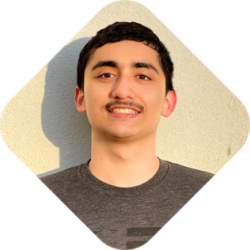
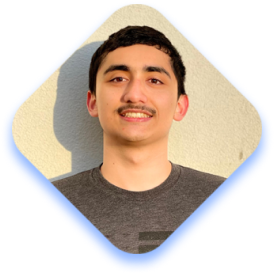
Updated several officer images, descriptions, and titles
- Added spacing to the Officer Profile List component.
- Created simple text colorizer for specific keywords in the Officer Profile component.

Changed region(s): [[0.0, 0.0, 1.0, 1.0], [0.308, 0.728, 0.336, 0.756], [0.28, 0.7, 0.308, 0.728]]

diff --git a/src/lib/officers.ts b/src/lib/officers.ts
@@ -15,22 +15,22 @@ export const officers: Record<string, Officer[]> = {
   "2020-2021": [
     {
       name: "Jacob Nguyen",
-      title: "President/Create Director 🎨",
+      title: "President/Create Director",
       picture: "jacob-nguyen.png",
     },
     {
       name: "Aaron Lieberman",
-      title: "Internal Vice President 😎",
+      title: "Internal Vice President",
       picture: "aaron-lieberman.png",
     },
     {
       name: "Samuel Sandoval",
-      title: "Dev Director 🧠",
+      title: "Dev Director",
       picture: "samuel-sandoval.png",
     },
     {
       name: "Ethan Davidson",
-      title: "Webmaster 👨💻",
+      title: "Webmaster 😎",
       picture: "ethan-davidson.png",
       url: "https://github.com/EthanThatOneKid",
     },
@@ -45,11 +45,6 @@ export const officers: Record<string, Officer[]> = {
       picture: "andrew-lau.jpg",
     },
     {
-      name: "Nicole Traboulsi",
-      title: "NodeBuds Officer",
-      picture: "nicole-traboulsi.jpeg",
-    },
-    {
       name: "Jason Anthony",
       title: "Secretary",
       picture: "jason-anthony.png",
@@ -62,7 +57,7 @@ export const officers: Record<string, Officer[]> = {
     {
       name: "Nicolas Renteria",
       title: "Marketing Chair",
-      picture: "nicolas-renteria.jpg",
+      picture: "nicolas-renteria.png",
     },
     {
       name: "Joshua Hughes",
@@ -113,6 +108,16 @@ export const officers: Record<string, Officer[]> = {
       name: "Lisa Hong",
       title: "Create Officer",
       picture: "lisa-hong.png",
+    },
+    {
+      name: "Taylor Noh",
+      title: "NodeBuds Officer",
+      picture: "taylor-noh.png",
+    },
+    {
+      name: "Eugene Lee",
+      title: "NodeBuds Officer",
+      picture: "eugene-lee.png",
     },
   ],
 };

diff --git a/src/components/sections/officer-profile-list.svelte b/src/components/sections/officer-profile-list.svelte
@@ -1,37 +1,41 @@
 <script lang="ts">
-  import { styleProps } from "../../actions/use-style-props";
   import { officers } from "../../lib/officers";
   import OfficerProfile from "@/components/sections/officer-profile.svelte";
   import AcmSelect from "@/components/utils/acm-select.svelte";
+  import Spacing from "@/components/sections/spacing.svelte";
 
   let currentSchoolYear = "2020-2021";
 </script>
 
-<section>
-  <h2>
-    board
-    <span class="brand-em brand-blue">officers</span>
-  </h2>
-  <div class="school-year-input-container">
-    <AcmSelect
-      bind:defaultValue="{currentSchoolYear}"
-      options="{Object.keys(officers)}"
+<h2>
+  board
+  <span class="brand-em brand-blue">officers</span>
+</h2>
+
+<Spacing amount="30px" />
+
+<div class="school-year-input-container">
+  <AcmSelect
+    bind:defaultValue="{currentSchoolYear}"
+    options="{Object.keys(officers)}"
+  />
+</div>
+
+<Spacing amount="30px" />
+
+<div class="officer-profile-list">
+  {#each officers[currentSchoolYear] as { name, title, picture } (name)}
+    <OfficerProfile
+      name="{name}"
+      title="{title}"
+      picture="{picture}"
+      key="{picture}"
     />
-  </div>
-  <div class="officer-profile-list">
-    {#each officers[currentSchoolYear] as { name, title, picture } (name)}
-      <OfficerProfile
-        name="{name}"
-        title="{title}"
-        picture="{picture}"
-        key="{picture}"
-      />
-    {/each}
-  </div>
-</section>
+  {/each}
+</div>
 
 <style>
-  section h2 {
+  h2 {
     text-align: center;
     font-weight: bold;
     font-size: var(--heading-font-size);

diff --git a/src/components/sections/officer-profile.svelte b/src/components/sections/officer-profile.svelte
@@ -3,30 +3,30 @@
   export let title: string = "";
   export let picture: string = "";
   export let key: string = "";
+
+  title = title
+    .replace(/Create/, `<span class="brand-em brand-pink">Create</span>`)
+    .replace(/Algo/, `<span class="brand-em brand-purple">Algo</span>`)
+    .replace(/Dev/, `<span class="brand-em brand-bluer">Dev</span>`)
+    .replace(/Webmaster/, `<span class="brand-em brand-blue">Webmaster</span>`)
+    .replace(
+      /NodeBuds/,
+      `<span class="brand-em">Node<span class="brand-red">Buds</span></span>`
+    );
 </script>
 
 <div class="officer-container">
-  <svg class="officer-image" viewBox="1 1 8 8">
-    <pattern
-      id="{`officer-image-${key}`}"
-      patternUnits="userSpaceOnUse"
-      width="{10}"
-      height="{10}"
-    >
-      <image
-        width="{10}"
-        height="{10}"
-        xlink:href="{`../assets/authors/${picture || 'placeholder.png'}`}"
-      ></image>
-    </pattern>
-    <path
-      d="M5.5 1.5 L8.5 4.5 Q9 5 8.5 5.5 L5.5 8.5 Q5 9 4.5 8.5 L 1.5 5.5 Q1 5 1.5 4.5 L4.5 1.5 Q 5 1 5.5 1.5z"
-      fill="{`url(#officer-image-${key})`}"></path>
-  </svg>
+  <img
+    class="officer-image"
+    src="{`../assets/authors/${picture}`}"
+    alt="{`Image of ${name}.`}"
+  />
   <h3>
     {name}
   </h3>
-  <p>{title}</p>
+  <p>
+    {@html title}
+  </p>
 </div>
 
 <style>
